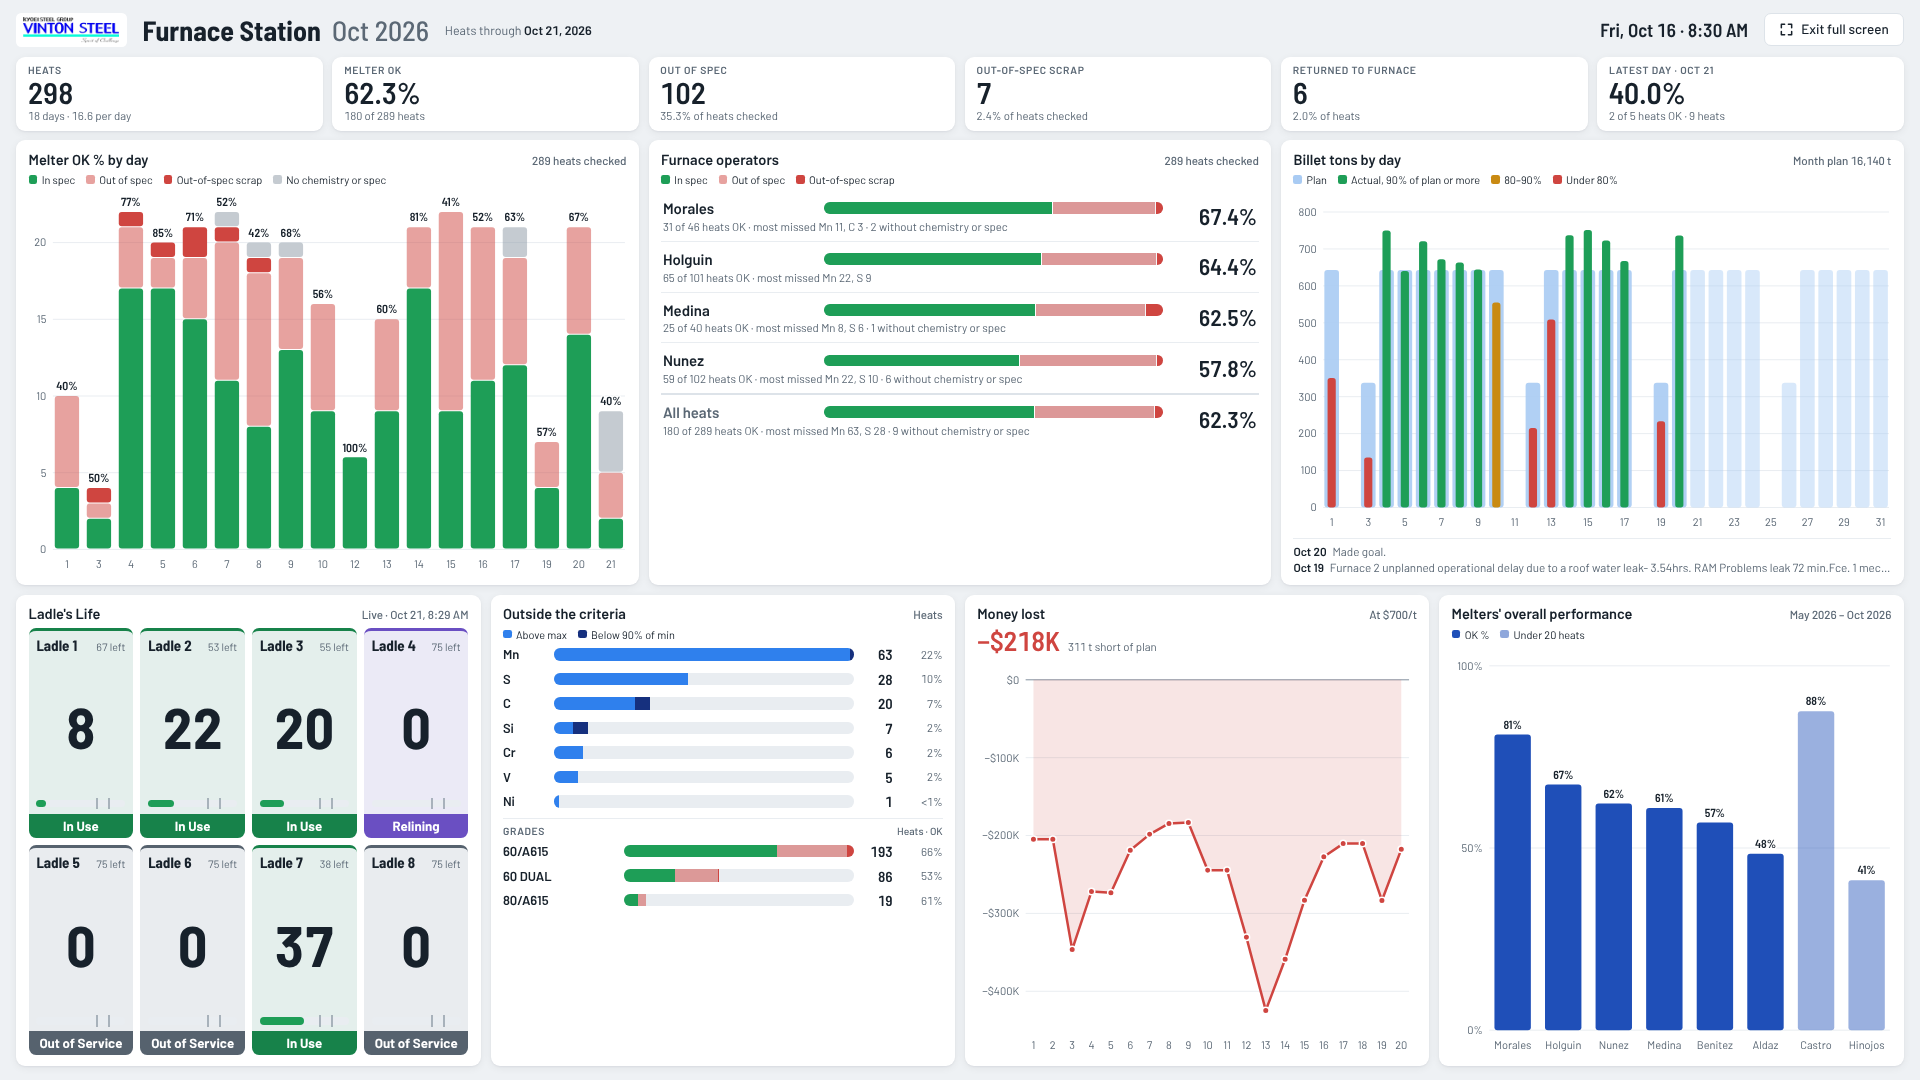
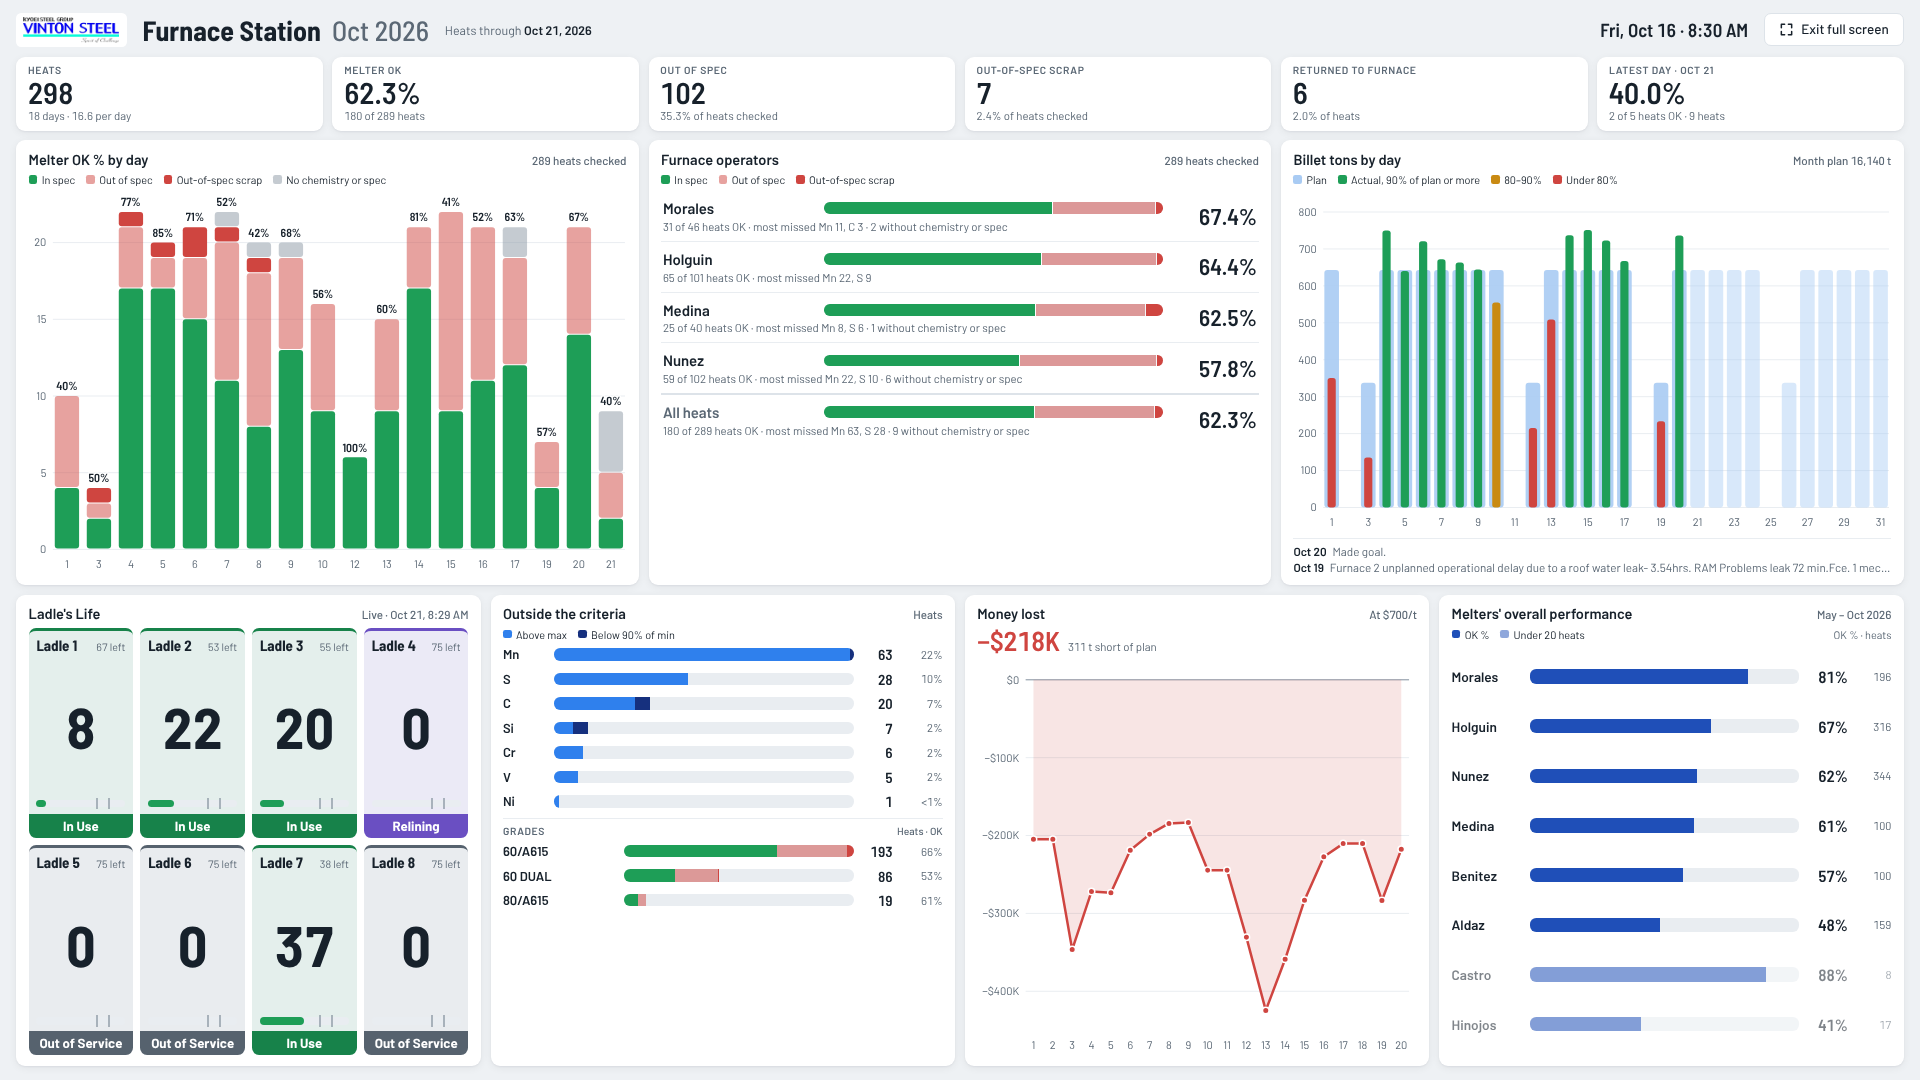
Furnace Station: list every melter by name in overall performance
The column chart skipped names that did not fit under the bars on narrower screens; it is now a
list with each melter's name, OK % bar, OK % and heats.

Claude-Session: https://claude.ai/code/session_01CDN4J3RVh4maKsFv7NYeHq

Changed region(s): [[0.75, 0.6111, 1.0, 0.9778], [0.9375, 0.55, 0.9688, 0.5806]]

diff --git a/index.html b/index.html
@@ -467,6 +467,13 @@ a.btn { text-decoration: none; }
 .st-bars .p { text-align: right; font-size: .88em; color: var(--muted); font-variant-numeric: tabular-nums; }
 .st-bars .p.c-good { color: var(--good-ink); font-weight: 600; } .st-bars .p.c-warn { color: var(--warn-ink); font-weight: 600; } .st-bars .p.c-bad { color: var(--bad-ink); font-weight: 600; }
 .st-bars .chart-empty { padding: 2em 0; }
+.st-bars .r.few { opacity: .55; }
+.st-bars.overall { gap: .7em; align-content: space-evenly; }
+.st-bars.overall .r { grid-template-columns: minmax(5.5em, auto) minmax(0, 1fr) 3.2em 2.8em; }
+.st-bars.overall .l { font-size: 1.05em; overflow: visible; }
+.st-bars.overall .n { font-size: 1.25em; }
+.st-bars.overall .t { height: 1.1em; }
+.st-legend .cols { margin-left: auto; color: var(--muted); }
 .st-notes { list-style: none; margin: .45em 0 0; padding: .45em 0 0; border-top: 1px solid var(--line-2); display: grid; gap: .2em; font-size: .9em; }
 .st-notes:empty { display: none; }
 .st-notes li { white-space: nowrap; overflow: hidden; text-overflow: ellipsis; color: var(--muted); }
@@ -1045,7 +1052,7 @@ html.vk-tv #ladles .ladle-edit { display: none; }
       <div class="st-card c3 fx">
         <h2><span>Melters' overall performance</span><small data-st="overall-note"></small></h2>
         <div class="st-legend" data-st="overall-legend"></div>
-        <div class="st-chart" data-st="overall"></div>
+        <div class="st-bars wide overall fill" data-st="overall"></div>
       </div>
     </section>
 
@@ -2625,8 +2632,10 @@ html.vk-tv #ladles .ladle-edit { display: none; }
         t.appendChild(i);
       }
       if (r.title) l.title = r.title;
-      row.append(l, t, mk('span', 'n', fInt(r.n)), mk('span', 'p' + (r.pst && r.pst !== 'neutral' ? ' c-' + r.pst : ''), r.p == null ? '' : fP0(r.p)));
-      row.setAttribute('aria-label', `${r.label}: ${r.n} heats` + r.parts.filter((p) => p.n).map((p) => `, ${p.n} ${p.label.toLowerCase()}`).join(''));
+      row.append(l, t, mk('span', 'n', r.nText != null ? r.nText : fInt(r.n)), mk('span', 'p' + (r.pst && r.pst !== 'neutral' ? ' c-' + r.pst : ''), r.pText != null ? r.pText : r.p == null ? '' : fP0(r.p)));
+      if (r.few) row.classList.add('few');
+      row.setAttribute('aria-label', r.aria || `${r.label}: ${r.n} heats` + r.parts.filter((p) => p.n).map((p) => `, ${p.n} ${p.label.toLowerCase()}`).join(''));
+      if (r.tip) row.title = r.tip;
       box.appendChild(row);
     }
     // a list that fills the rest of its card shows only the rows that fit
@@ -2846,12 +2855,18 @@ html.vk-tv #ladles .ladle-edit { display: none; }
       const r = { in: 0, miss: 0, scrap: 0 };
       for (const h of hs) { const f = furnaceState(h, oset, ST_SPEC); if (f in r) r[f] += 1; }
       const n = r.in + r.miss + r.scrap;
-      return { key: name, label: name, long: name, pct: n ? r.in / n : null, n,
-        extra: [[null, 'Heats checked', fInt(n)], ['var(--good)', 'OK', fInt(r.in)], ['var(--bad)', 'Out of spec', fInt(r.miss)], ['var(--bad)', 'Out-of-spec scrap', fInt(r.scrap)], [null, 'Months', fInt(new Set(hs.map((h) => h.Month)).size)]] };
+      const pct = n ? r.in / n : null, months = new Set(hs.map((h) => h.Month)).size;
+      return { key: name, label: name, pct, n, nText: pct == null ? '—' : fP0(pct), pText: fInt(n),
+        parts: [{ n: pct == null ? 0 : pct * 100, color: 'var(--total)', label: 'OK' }],
+        aria: `${name}: ${pct == null ? '—' : fP1(pct)} OK over ${n} heats checked in ${months} month${months === 1 ? '' : 's'}`,
+        tip: `${name}: ${fInt(r.in)} OK, ${fInt(r.miss)} out of spec, ${fInt(r.scrap)} out-of-spec scrap · ${fInt(n)} heats checked · ${months} month${months === 1 ? '' : 's'}` };
     }).filter((r) => r.pct != null && r.key !== '(Blank)').map((r) => ({ ...r, few: r.n < 20 }))
       .sort((a, b) => a.few - b.few || b.pct - a.pct || b.n - a.n);
     stLegend(stq(sec, 'overall-legend'), [['OK %', 'var(--total)'], ...(overall.some((r) => r.few) ? [['Under 20 heats', 'var(--total)', true]] : [])]);
-    stq(sec, 'overall-note').textContent = allMonths.length ? (allMonths.length > 1 ? `${monthShort(allMonths[0])} – ${monthShort(allMonths[allMonths.length - 1])}` : monthShort(allMonths[0])) : '';
+    const hdr = mk('span', 'lg cols', 'OK % · heats'); stq(sec, 'overall-legend').appendChild(hdr);
+    const mFirst = allMonths[0], mLast = allMonths[allMonths.length - 1];
+    stq(sec, 'overall-note').textContent = !mFirst ? '' : mFirst === mLast ? monthShort(mFirst)
+      : mFirst.slice(0, 4) === mLast.slice(0, 4) ? `${MONTHS[+mFirst.slice(5, 7) - 1].slice(0, 3)} – ${monthShort(mLast)}` : `${monthShort(mFirst)} – ${monthShort(mLast)}`;
     const rowsM = oset.rows.filter((r) => inMonth(r, m));
     const hk = (r) => r.Month + '|' + r.HeatNo;
     const els = d3.rollups(rowsM, (v) => ({ up: new Set(v.filter((r) => r.Direction === 'Above Maximum').map(hk)).size, down: new Set(v.filter((r) => r.Direction !== 'Above Maximum').map(hk)).size, n: new Set(v.map(hk)).size }), (r) => r.Element)
@@ -2867,7 +2882,7 @@ html.vk-tv #ladles .ladle-edit { display: none; }
     stRank(stq(sec, 'ops'), opRanks(all, 'Crew', oset, ST_SPEC), { s: fAll, ...rankInfo(fAll, 'F', true) });
     const groups = d3.groups(all, (h) => (single ? h.Date : h.Month)).sort((a, b) => cmp(a[0], b[0]));
     stProduction(sec, m, single);
-    stMonths(stq(sec, 'overall'), overall, null, [{ key: 'pct', label: 'Melter OK', color: () => 'var(--total)' }], { target: false });
+    stBars(stq(sec, 'overall'), overall, 100, 'No melters yet');
     stFurnaceDays(stq(sec, 'days'), groups.map(([key, hs]) => ({ key, label: colLabel(key, single, groups.length), long: single ? d3.utcFormat('%a, %b %-d')(utc(key)) : monthLong(key), ...cnt(hs) })));
   }
 
